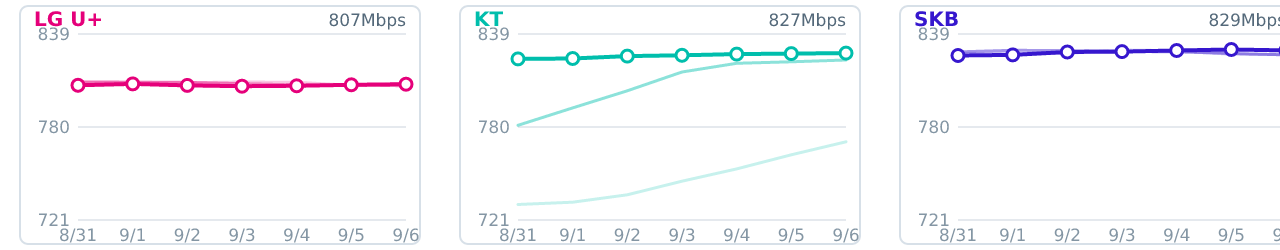
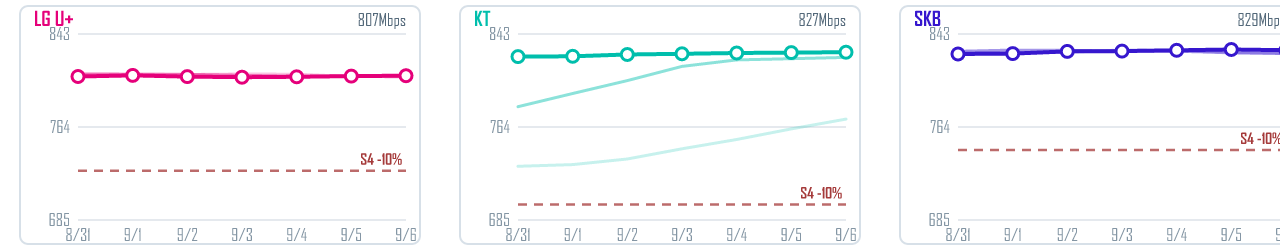
feat(alert): 주간 메일 차트↔트리거 판정 연계 — 지표 카드 + 차트 임계 점선
- 지표 카드: 차트 아래에 그 지표의 A/S 판정을 규칙당 1행, 열은 차트 패널 순서(LG U+·KT·SKB)로.
  ISP별 행이면 조건·의미가 3번 반복돼 99KB(Gmail 102KB 한도 근접) → 규칙 행으로 80KB.
- 차트 임계선: 절대 조건은 값 그대로, 상대 조건(S -10%·A5 +10%p)은 28일 기준선으로 환산해 점선+라벨.
- 3사 수준이 5배 이상 벌어지면(IPv6) 패널별 눈금(own scale) — 공유하면 작은 쪽이 바닥에 깔림.
- 라벨의 '<='가 SVG XML을 깨뜨린 회귀 → ≥/≤ + 이스케이프, PNG 변환 테스트에 특수문자 포함. 테스트 65항목.

diff --git a/scripts/detect-anomaly.ts b/scripts/detect-anomaly.ts
@@ -16,7 +16,7 @@ import { ISP_BY_ID, NIA_NAME_BY_ID } from '../src/data/isps.ts';
 import { METRIC_BY_ID, SOURCES } from '../src/data/metrics.ts';
 import { SUMMARY_METRICS, buildSummary } from '../src/lib/summary.ts';
 import type { QualityData } from '../src/types.ts';
-import { renderWeeklyCharts, type ChartSpec, type RenderedChart } from './weekly-charts.ts';
+import { renderWeeklyCharts, CHART_ISPS, type ChartSpec, type RenderedChart, type Guide } from './weekly-charts.ts';
 
 const HOUR = 3600000;
 const DAY = 24 * HOUR;
@@ -179,6 +179,7 @@ export interface EvalInput {
 export interface Check {
   key: string; group: 'A' | 'S' | 'D'; trigger: string; target: string; // target: ISP id 또는 캐시/출처 그룹명
   metric: string; // 사람이 읽는 지표명 + 출처 — "IPv6 채택률 (Cloudflare Radar)" · D는 감시 대상 파일/출처
+  metricId?: string; // A/S만 — 주간 메일에서 같은 지표의 차트 아래에 묶기 위한 키
   meaning: string; // 걸리면 무슨 상황인지 한 줄
   cond: string; value: number | null; unit: string; date: string; // 최근 유효값과 그 날짜(D는 경과시간·기준시각)
   met: boolean; active: boolean;
@@ -219,7 +220,7 @@ export function evaluate({ data, cacheGeneratedAt, now, prev }: EvalInput): Eval
         } else if (active[key] && off.none && off.last) {
           clear(key, off.last.v, `${ispName(isp)} ${mname} ${fmt(off.last.v, unit)} — 조건 미충족 ${CLEAR_DAYS}일 연속, 해소`);
         }
-        checks.push({ key, group: trg.id.startsWith('S') ? 'S' : 'A', trigger: trg.id, target: isp, metric: metricLabel(trg.metric), meaning: r.meaning, cond: condText(r, unit),
+        checks.push({ key, group: trg.id.startsWith('S') ? 'S' : 'A', trigger: trg.id, target: isp, metric: metricLabel(trg.metric), metricId: trg.metric, meaning: r.meaning, cond: condText(r, unit),
           value: lastV, unit, date: pts.length ? dayKey(pts[pts.length - 1].t) : '데이터 없음', met: on.all, active: !!active[key] });
       }
     }
@@ -324,6 +325,29 @@ export function digestData(data: QualityData, cacheGeneratedAt: Record<string, s
   return { ranks, fresh, week };
 }
 const round1 = (v: number | null) => (v == null ? null : Math.round(v * 10) / 10);
+
+// 차트 임계선: 트리거 규칙을 지표별·ISP별 y값으로. 상대 규칙(rise_pp·drop_pct)은 주 마지막 날 기준 직전 28일 중앙값으로 환산.
+export function chartGuides(data: QualityData, week: WeekWindow): Record<string, Guide[]> {
+  const out: Record<string, Guide[]> = {};
+  const baseline = (isp: string, metric: string): number | null => {
+    const v = data.series[isp]?.[metric]?.coarse?.[0]; if (!v) return null;
+    const axis = data.tiers.coarse.t; const h: number[] = [];
+    for (let i = 0; i < axis.length; i++) { const x = v[i]; if (x != null && axis[i] >= week.to - BASE_DAYS * DAY && axis[i] < week.to) h.push(x); }
+    return h.length >= 14 ? med(h) : null;
+  };
+  for (const trg of TRIGGERS) for (const isp of trg.isps) for (const r of trg.rules) {
+    let y: number | null = null, label = '';
+    switch (r.cmp) {
+      case 'gte': y = r.th; label = `${trg.id} ≥ ${r.th}`; break; // ≥/≤ 는 DejaVu·Arial 모두 있음(차트 폰트)
+      case 'lte': y = r.th; label = `${trg.id} ≤ ${r.th}`; break;
+      case 'gt0': y = 0; label = `${trg.id} > 0`; break;
+      case 'rise_pp': { const b = baseline(isp, trg.metric); if (b != null) { y = b + r.th; label = `${trg.id} +${r.th}pp`; } break; }
+      case 'drop_pct': { const b = baseline(isp, trg.metric); if (b != null) { y = b * (1 - r.th / 100); label = `${trg.id} -${r.th}%`; } break; }
+    }
+    if (y != null) (out[trg.metric] ??= []).push({ isp, y, label });
+  }
+  return out;
+}
 const weekEvents = (state: AlertState, week: WeekWindow) => state.history.filter((e) => { const t = Date.parse(e.at) + 9 * HOUR; return t >= week.from && t < week.to; });
 
 // Step Summary(markdown)용
@@ -415,24 +439,41 @@ export function buildMailHtml(r: EvalResult, data: QualityData, cacheGeneratedAt
     dg.ranks.map((m) => `<tr>${td(`<b>${esc(m.short)}</b>`)}${m.cells.map((c) => rankCell(c, m.unit, m.hib)).join('')}</tr>`).join(''));
   const weekEventsHtml = wev.length ? wev.map(eventCard).join('')
     : `<div style="padding:10px 12px;background:${C.card};border:1px solid ${C.line};border-radius:6px;font-size:13px;color:${C.soft};${FONT}">지난주 발동·해소 이벤트 없음 — 트리거 전부 정상 범위였습니다.</div>`;
-  // 일별 추이 차트 — 주간 평균이 지우는 '하루 튐'을 선으로 되살린다. 1·2주 전을 겹쳐 반복 패턴(주말 효과)과 이탈을 구분.
-  const chartsHtml = (opts.charts ?? []).map((c) => `<table role="presentation" width="100%" cellpadding="0" cellspacing="0" style="margin:0 0 10px"><tr><td style="padding:0 0 4px;font-size:12.5px;font-weight:700;color:${C.ink};${FONT}">${esc(c.short)}</td></tr>` +
-    `<tr><td><img src="${esc(`${opts.chartBase ?? CHART_BASE}/${c.file}`)}" width="640" height="125" alt="${esc(c.short)} 지난주 일별 추이" style="display:block;width:100%;max-width:640px;height:auto;border:0"></td></tr></table>`).join('');
+  // 판정 행 렌더러 — 전체 표(일별 메일)와 지표 카드(주간 메일) 양쪽에서 씀. withMetric=false 면 지표명 열을 생략(카드 제목에 이미 있음).
+  const stateChip = (c: Check) => c.active ? chip('발동 중', C.bad, C.badSoft) : c.met ? chip('충족', C.warn, C.warnSoft) : chip('정상', C.ops, C.opsSoft);
+  const checkRow = (c: Check, withMetric: boolean) => `<tr>${td(withMetric ? `<b style="color:${C.accent}">${esc(c.trigger)}</b> · <b>${esc(c.metric)}</b>` : `<b style="color:${C.accent}">${esc(c.trigger)}</b>`, withMetric ? '' : 'white-space:nowrap')}` +
+    `${td(esc(c.group === 'D' ? c.target : ispName(c.target)), 'white-space:nowrap')}${td(`${esc(c.cond)}<div style="color:${C.faint};font-size:11px">${esc(c.meaning)}</div>`, 'font-size:11.5px;color:' + C.soft)}` +
+    `${td(esc(fmt(c.value, c.unit)), 'text-align:right;white-space:nowrap')}${td(`<span style="color:${C.faint};font-size:11px">${esc(c.date)}</span>`, 'white-space:nowrap')}${td(stateChip(c))}</tr>`;
+  // 지표 카드(주간) — 차트 + 그 지표의 A/S 판정. 규칙당 1행, 열은 차트 패널과 같은 순서(LG U+ · KT · SKB)라 점선↔셀이 바로 대응된다.
+  // (ISP별 행으로 풀면 조건·의미가 3번 반복돼 본문이 Gmail 102KB 한도에 닿았음 — 2026-09-09)
+  const tdc = (html: string, extra = '') => `<td style="padding:6px 8px;font-size:12px;border-bottom:1px solid ${C.line};${FONT}${extra}">${html}</td>`;
+  const metricCards = (opts.charts ?? []).map((c) => {
+    const rows = r.checks.filter((k) => k.metricId === c.id);
+    const rules = [...new Map(rows.map((k) => [`${k.trigger}:${k.key.split(':')[2]}`, k])).entries()]; // 규칙 대표 행
+    const ids = [...new Set(rows.map((k) => k.trigger))];
+    const head = `<tr><td style="padding:0 0 6px;${FONT}"><span style="font-size:13.5px;font-weight:700;color:${C.ink}">${esc(c.short)}</span> ` +
+      (ids.length ? ids.map((id) => chip(id, C.accent, C.accentSoft)).join(' ') : `<span style="font-size:11px;color:${C.faint}">트리거 없음 · 순위 비교용</span>`) +
+      (rows.some((k) => k.active) ? ' ' + chip('발동 중', C.bad, C.badSoft) : '') + `</td></tr>`;
+    const img = `<tr><td><img src="${esc(`${opts.chartBase ?? CHART_BASE}/${c.file}`)}" width="640" height="125" alt="${esc(c.short)} 지난주 일별 추이" style="display:block;width:100%;max-width:640px;height:auto;border:0"></td></tr>`;
+    const cell = (k: Check | undefined) => !k ? tdc(`<span style="color:${C.faint}">—</span>`, 'text-align:center')
+      : tdc(`<b style="color:${C.ink}">${esc(fmt(k.value, k.unit))}</b> ${stateChip(k)}<div style="font-size:10.5px;color:${C.faint}">${esc(k.date)}</div>`, 'white-space:nowrap');
+    const tbl = rules.length ? `<tr><td style="padding:6px 0 0">${table(`<tr>${th('트리거', 'width:8%')}${th('조건 (차트 점선) · 걸리면 이런 상황', 'width:41%')}${CHART_ISPS.map((i) => th(ispName(i), 'width:17%')).join('')}</tr>` +
+      rules.map(([rk, k0]) => `<tr>${tdc(`<b style="color:${C.accent}">${esc(k0.trigger)}</b>`, 'white-space:nowrap')}${tdc(`<span style="color:${C.soft}">${esc(k0.cond)}</span><div style="color:${C.faint};font-size:10.5px">${esc(k0.meaning)}</div>`, 'font-size:11.5px')}` +
+        CHART_ISPS.map((isp) => cell(rows.find((k) => k.target === isp && `${k.trigger}:${k.key.split(':')[2]}` === rk))).join('') + '</tr>').join(''))}</td></tr>` : '';
+    return `<table role="presentation" width="100%" cellpadding="0" cellspacing="0" style="margin:0 0 16px;padding:10px 12px;background:${C.card2};border:1px solid ${C.line};border-radius:8px">${head}${img}${tbl}</table>`;
+  }).join('');
 
   // 수집 신선도
   const freshChip = (f: DigestData['fresh'][number]) => { const s = freshState(f); return s === 'ok' ? chip('정상', C.good, C.goodSoft) : s === 'warn' ? chip('주의', C.warn, C.warnSoft) : s === 'over' ? chip('허용 초과', C.bad, C.badSoft) : chip('파일 없음', C.bad, C.badSoft); };
   const freshHtml = table(`<tr>${th('출처')}${th('마지막 갱신', 'text-align:right')}${th('허용', 'text-align:right')}${th('상태')}</tr>` +
     dg.fresh.map((f) => `<tr>${td(esc(f.name))}${td(f.ageH == null ? '–' : `${f.ageH.toFixed(1)}h 전`, 'text-align:right;white-space:nowrap')}${td(`${f.limitH}h`, 'text-align:right;color:' + C.faint)}${td(freshChip(f))}</tr>`).join(''));
 
-  // 트리거 판정 현황
-  const stateChip = (c: Check) => c.active ? chip('발동 중', C.bad, C.badSoft) : c.met ? chip('충족', C.warn, C.warnSoft) : chip('정상', C.ops, C.opsSoft);
-  const groups: Check['group'][] = ['A', 'S', 'D'];
+  // 트리거 판정 현황 — 주간 메일에선 A/S가 지표 카드로 올라가므로 D만, 일별 메일에선 전체.
   // 한 행 = "A1 · IPv6 채택률 (Cloudflare Radar)" / KT / 조건 + 의미 한 줄 / 최근값 / 기준일 / 상태 — ID만으론 무슨 지표인지 안 보여서(2026-09-09) 지표명·의미를 같이 표기.
+  const tableGroups: Check['group'][] = week && opts.charts?.length ? ['D'] : ['A', 'S', 'D'];
   const checksHtml = table(`<tr>${th('트리거 · 지표', 'width:27%')}${th('대상', 'width:11%')}${th('조건 · 걸리면 이런 상황', 'width:36%')}${th('최근값', 'text-align:right;width:9%')}${th('기준일', 'width:10%')}${th('상태', 'width:7%')}</tr>` +
-    groups.map((g) => `<tr><td colspan="6" style="padding:6px 10px;font-size:11px;font-weight:700;color:${C.accent};background:${C.accentSoft};${FONT}">${esc(GROUP_LABEL[g])}</td></tr>` +
-      r.checks.filter((c) => c.group === g).map((c) => `<tr>${td(`<b style="color:${C.accent}">${esc(c.trigger)}</b> · <b>${esc(c.metric)}</b>`)}${td(esc(c.group === 'D' ? c.target : ispName(c.target)), 'white-space:nowrap')}` +
-        `${td(`${esc(c.cond)}<div style="color:${C.faint};font-size:11px">${esc(c.meaning)}</div>`, 'font-size:11.5px;color:' + C.soft)}` +
-        `${td(esc(fmt(c.value, c.unit)), 'text-align:right;white-space:nowrap')}${td(`<span style="color:${C.faint};font-size:11px">${esc(c.date)}</span>`, 'white-space:nowrap')}${td(stateChip(c))}</tr>`).join('')).join(''));
+    tableGroups.map((g) => `<tr><td colspan="6" style="padding:6px 10px;font-size:11px;font-weight:700;color:${C.accent};background:${C.accentSoft};${FONT}">${esc(GROUP_LABEL[g])}</td></tr>` +
+      r.checks.filter((c) => c.group === g).map((c) => checkRow(c, true)).join('')).join(''));
 
   const links = `<a href="${DASHBOARD_URL}" style="color:${C.accent};text-decoration:none">대시보드 열기</a>` + (opts.runUrl ? ` · <a href="${esc(opts.runUrl)}" style="color:${C.accent};text-decoration:none">판정 실행 로그</a>` : '');
   return `<!doctype html><html lang="ko"><head><meta charset="utf-8"><meta name="viewport" content="width=device-width"><title>ISPQ 알림</title></head>` +
@@ -448,8 +489,9 @@ export function buildMailHtml(r: EvalResult, data: QualityData, cacheGeneratedAt
     (week ? section(`지난주 이벤트 (${week.label})`, weekEventsHtml) + (r.events.length ? section('오늘 신규 이벤트', eventsHtml) : '') : section('이벤트', eventsHtml)) +
     section('활성 알림', activeHtml) +
     section('국내 3사 대표 지표 순위', ranksHtml, week ? `지난주 ${week.label} 일별 집계 평균 · 1위 초록 · 꼴찌 빨강 · 화살표는 전전주 대비 변화(초록=개선, 빨강=악화)` : '종합지표 패널과 같은 계산 · 1위 초록 · 꼴찌 빨강') +
-    (week && opts.charts?.length ? section('지난주 일별 추이', chartsHtml, `진한 선·점 = 지난주 ${week.label} · 연한 선 = 1주 전 · 더 연한 선 = 2주 전 · 세 패널은 같은 눈금(사업자 간 수준 비교 가능) · 평균에 묻히는 하루 튐은 여기서 보입니다`) : '') +
-    section('수집 신선도', freshHtml) + section('트리거 판정 현황', checksHtml, '"정상" = 조건 미충족. "충족"은 조건은 넘었으나 아직 발동 처리 전, "발동 중"은 해소 전까지 재발송 없음') +
+    (week && opts.charts?.length ? section('지표별 지난주 추이 + 트리거 판정', metricCards, `진한 선·점 = 지난주 ${week.label} · 연한 선 = 1주 전 · 더 연한 선 = 2주 전 · 빨간 점선 = 아래 표의 트리거 임계값(상대 조건은 28일 기준선으로 환산) · 패널 눈금은 공유, 사업자 간 수준이 5배 이상 벌어지면 개별(own scale)`) : '') +
+    section('수집 신선도', freshHtml) +
+    section(week && opts.charts?.length ? '운영 트리거 판정 현황' : '트리거 판정 현황', checksHtml, '"정상" = 조건 미충족. "충족"은 조건은 넘었으나 아직 발동 처리 전, "발동 중"은 해소 전까지 재발송 없음') +
     `<tr><td style="padding:18px 0 0;border-top:1px solid ${C.line};margin-top:18px;font-size:11px;color:${C.faint};${FONT}">${links} · 판정 규칙: 핸드오프 문서 §17 · 이 메일은 자동 발송됩니다</td></tr>` +
     `</table></td></tr></table></body></html>`;
 }
@@ -471,7 +513,7 @@ async function main() {
   const week = weekly ? prevWeekWindow(now) : undefined;
   const r = evaluate({ data, cacheGeneratedAt, now, prev });
   await writeFile(STATE_FILE, JSON.stringify(r.state, null, 1));
-  const charts = week ? await renderWeeklyCharts(data, week.from, CHART_SPECS, CHARTS_DIR) : [];
+  const charts = week ? await renderWeeklyCharts(data, week.from, CHART_SPECS, CHARTS_DIR, chartGuides(data, week)) : [];
   if (charts.length) console.log(`[alert] 주간 추이 차트 ${charts.length}장 → ${CHARTS_DIR} (${charts.map((c) => `${c.id} ${(c.bytes / 1024).toFixed(0)}KB`).join(', ')})`);
   const report = buildReport(r, data, cacheGeneratedAt, now, week);
   await writeFile(REPORT_FILE, report);

diff --git a/scripts/weekly-charts.ts b/scripts/weekly-charts.ts
@@ -36,27 +36,51 @@ export function extractSeries(data: QualityData, metric: string, weekFrom: numbe
   });
 }
 
+const xmlEsc = (s: string) => s.replace(/[&<>]/g, (ch) => ({ '&': '&amp;', '<': '&lt;', '>': '&gt;' }[ch] as string)); // 라벨에 <= 같은 문자가 오면 SVG 파싱이 깨진다
 const niceNum = (v: number) => (Math.abs(v) >= 100 ? v.toFixed(0) : Math.abs(v) >= 10 ? v.toFixed(1) : v.toFixed(2)).replace(/\.0+$/, '');
 
-// 2배 해상도(레티나)로 그린다: 표시 640×125 → 1280×250.
-export function weeklyChartSvg(series: ChartSeries[], dayLabels: string[], unit: string): string {
-  const W = 1280, H = 250, PANEL_W = 400, GAP = 40, LEFT = 20;
-  const PAD_L = 58, PAD_R = 14, PAD_T = 34, PAD_B = 30;
-  const vals = series.flatMap((s) => s.weeks.flat()).filter((x): x is number => x != null);
-  let lo = vals.length ? Math.min(...vals) : 0, hi = vals.length ? Math.max(...vals) : 1;
+// 트리거 임계선: 해당 ISP 패널에 점선으로 그려 "값이 선에서 얼마나 떨어져 있나"를 보이게 한다(2026-09-09, 차트↔판정 연계).
+// 절대 임계(A1 ≥1% 등)는 값 그대로, 상대 임계(S -10%·A5 +10%p)는 호출 쪽이 28일 기준선으로 환산해 y로 넘긴다.
+export interface Guide { isp: string; y: number; label: string }
+
+// y축 공유 여부: 3사 수준(지난주 중앙값)이 5배 이상 벌어지면(IPv6: LG U+ 16% vs KT 0.02%) 공유하면 작은 쪽이 바닥에 깔려 안 보이므로 패널별 눈금.
+function levelOf(s: ChartSeries): number { const v = s.weeks[0].filter((x): x is number => x != null).sort((a, b) => a - b); return v.length ? v[Math.floor(v.length / 2)] : 0; }
+function yRange(vals: number[], guides: number[]): { lo: number; hi: number } {
+  const all = [...vals, ...guides];
+  let lo = all.length ? Math.min(...all) : 0, hi = all.length ? Math.max(...all) : 1;
   if (hi === lo) { hi = lo + (Math.abs(lo) || 1) * 0.1; lo = lo - (Math.abs(lo) || 1) * 0.1; }
   const pad = (hi - lo) * 0.1; lo -= pad; hi += pad;
-  if (lo < 0 && vals.every((x) => x >= 0)) lo = 0; // 음수 불가 지표는 0에서 시작
-  const ticks = [lo, (lo + hi) / 2, hi];
+  if (lo < 0 && all.every((x) => x >= 0)) lo = 0; // 음수 불가 지표는 0에서 시작
+  return { lo, hi };
+}
+
+// 2배 해상도(레티나)로 그린다: 표시 640×125 → 1280×250.
+export function weeklyChartSvg(series: ChartSeries[], dayLabels: string[], unit: string, guides: Guide[] = []): string {
+  const W = 1280, H = 250, PANEL_W = 400, GAP = 40, LEFT = 20;
+  const PAD_L = 58, PAD_R = 14, PAD_T = 34, PAD_B = 30;
+  const levels = series.map(levelOf).filter((x) => x > 0);
+  const shared = levels.length < 2 || Math.max(...levels) / Math.min(...levels) < 5;
+  const allVals = series.flatMap((s) => s.weeks.flat()).filter((x): x is number => x != null);
+  const sharedRange = yRange(allVals, guides.map((g) => g.y));
   const out: string[] = [`<svg xmlns="http://www.w3.org/2000/svg" width="${W}" height="${H}" viewBox="0 0 ${W} ${H}">`, `<rect width="${W}" height="${H}" fill="#ffffff"/>`];
   series.forEach((s, p) => {
     const x0 = LEFT + p * (PANEL_W + GAP), px0 = x0 + PAD_L, px1 = x0 + PANEL_W - PAD_R, py0 = PAD_T, py1 = H - PAD_B;
+    const myGuides = guides.filter((g) => g.isp === s.isp);
+    const { lo, hi } = shared ? sharedRange : yRange(s.weeks.flat().filter((x): x is number => x != null), myGuides.map((g) => g.y));
+    const ticks = [lo, (lo + hi) / 2, hi];
     const X = (d: number) => px0 + (d / 6) * (px1 - px0), Y = (v: number) => py1 - ((v - lo) / (hi - lo)) * (py1 - py0);
     out.push(`<rect x="${x0}" y="6" width="${PANEL_W}" height="${H - 12}" rx="8" fill="#ffffff" stroke="#d7e0e8" stroke-width="2"/>`);
     out.push(`<text x="${x0 + 14}" y="26" font-family="sans-serif" font-size="20" font-weight="700" fill="${ISP_COLOR[s.isp]}">${ISP_LABEL[s.isp]}</text>`);
+    if (!shared) out.push(`<text x="${x0 + 14 + ISP_LABEL[s.isp].length * 13 + 6}" y="26" font-family="sans-serif" font-size="14" fill="#8496a4">(own scale)</text>`);
     for (const t of ticks) out.push(`<line x1="${px0}" y1="${Y(t).toFixed(1)}" x2="${px1}" y2="${Y(t).toFixed(1)}" stroke="#e5e9ee" stroke-width="2"/>`,
       `<text x="${px0 - 8}" y="${(Y(t) + 6).toFixed(1)}" font-family="sans-serif" font-size="17" fill="#8496a4" text-anchor="end">${niceNum(t)}</text>`);
     dayLabels.forEach((lab, d) => out.push(`<text x="${X(d).toFixed(1)}" y="${H - 9}" font-family="sans-serif" font-size="17" fill="#8496a4" text-anchor="middle">${lab}</text>`));
+    // 임계선(점선) + 라벨. 여러 개면 라벨이 겹치지 않게 선 위/아래로 번갈아.
+    myGuides.forEach((g, i) => {
+      const gy = Y(g.y);
+      out.push(`<line x1="${px0}" y1="${gy.toFixed(1)}" x2="${px1}" y2="${gy.toFixed(1)}" stroke="#a53a3a" stroke-opacity="0.75" stroke-width="2.5" stroke-dasharray="9 7"/>`);
+      out.push(`<text x="${px1 - 4}" y="${(i % 2 ? gy + 18 : gy - 6).toFixed(1)}" font-family="sans-serif" font-size="15" font-weight="700" fill="#a53a3a" text-anchor="end">${xmlEsc(g.label)}</text>`);
+    });
     // 2주 전 → 지난주 순으로 그려 지난주가 맨 위에 오게
     for (let w = 2; w >= 0; w--) {
       const st = WEEK_STYLE[w]; let dpath = '', pen = false;
@@ -79,13 +103,13 @@ export function svgToPng(svg: string): Buffer {
 
 export interface RenderedChart { id: string; short: string; unit: string; file: string; bytes: number }
 
-// 지표별 PNG를 outDir 에 'weekly-<metric>.png' 로 저장(매주 덮어씀).
-export async function renderWeeklyCharts(data: QualityData, weekFrom: number, specs: ChartSpec[], outDir: string): Promise<RenderedChart[]> {
+// 지표별 PNG를 outDir 에 'weekly-<metric>.png' 로 저장(매주 덮어씀). guides: 지표 id → 임계선 목록.
+export async function renderWeeklyCharts(data: QualityData, weekFrom: number, specs: ChartSpec[], outDir: string, guides: Record<string, Guide[]> = {}): Promise<RenderedChart[]> {
   await mkdir(outDir, { recursive: true });
   const dayLabels = Array.from({ length: 7 }, (_, d) => { const t = new Date(weekFrom + d * DAY); return `${t.getUTCMonth() + 1}/${t.getUTCDate()}`; });
   const out: RenderedChart[] = [];
   for (const spec of specs) {
-    const png = svgToPng(weeklyChartSvg(extractSeries(data, spec.id, weekFrom), dayLabels, spec.unit));
+    const png = svgToPng(weeklyChartSvg(extractSeries(data, spec.id, weekFrom), dayLabels, spec.unit, guides[spec.id] ?? []));
     const file = `weekly-${spec.id}.png`;
     await writeFile(resolve(outDir, file), png);
     out.push({ ...spec, file, bytes: png.length });

diff --git a/scripts/detect-anomaly.test.ts b/scripts/detect-anomaly.test.ts
@@ -4,7 +4,7 @@
 import { readFile } from 'node:fs/promises';
 import { dirname, resolve } from 'node:path';
 import { fileURLToPath } from 'node:url';
-import { evaluate, emptyState, buildMailHtml, buildReport, digestData, prevWeekWindow, TRIGGERS, CACHE_NAMES, KR3, type AlertState } from './detect-anomaly.ts';
+import { evaluate, emptyState, buildMailHtml, buildReport, digestData, prevWeekWindow, chartGuides, TRIGGERS, CACHE_NAMES, KR3, type AlertState } from './detect-anomaly.ts';
 import { extractSeries, weeklyChartSvg, svgToPng, renderWeeklyCharts } from './weekly-charts.ts';
 import { tmpdir } from 'node:os';
 import type { QualityData } from '../src/types.ts';
@@ -164,7 +164,23 @@ async function main() {
     const charts = await renderWeeklyCharts(real, w.from, [{ id: 'latency', short: 'RTT', unit: 'ms' }, { id: 'ipv6', short: 'IPv6', unit: '%' }], dir);
     ok(charts.length === 2 && charts.every((c) => c.bytes > 1000 && c.file.startsWith('weekly-')), `renderWeeklyCharts: ${charts.map((c) => `${c.file} ${(c.bytes / 1024).toFixed(0)}KB`).join(', ')}`);
     const html = buildMailHtml(base, real, caches, now, { week: w, charts, chartBase: 'https://x/y' });
-    ok(html.includes('지난주 일별 추이') && html.includes('https://x/y/weekly-latency.png') && html.includes('<img '), 'HTML 주간 메일: 추이 섹션 + 차트 URL'); }
+    ok(html.includes('지표별 지난주 추이 + 트리거 판정') && html.includes('https://x/y/weekly-latency.png') && html.includes('<img '), 'HTML 주간 메일: 추이 섹션 + 차트 URL');
+    // 차트↔판정 연계: ipv6 카드 안에 A1·A2 행이, latency 카드엔 "트리거 없음"이, A/S 행은 카드 밖 표에 중복되지 않음
+    const ipv6Card = html.slice(html.indexOf('weekly-ipv6.png'), html.indexOf('weekly-ipv6.png') + 6000);
+    ok(ipv6Card.includes('>A1<') && ipv6Card.includes('>A2<') && ipv6Card.includes('≥ 1% · 3일 연속') && (ipv6Card.match(/>—</g) ?? []).length === 5, 'IPv6 카드에 A1·A2 규칙 행(3행) · 미대상 ISP 셀 5개 — (A1: LGU / A2 상승·하락: KT·SKB)');
+    ok(html.length < 95 * 1024, `주간 HTML ${(html.length / 1024).toFixed(0)}KB < 95KB (Gmail 102KB 클립 여유)`);
+    ok(html.includes('트리거 없음 · 순위 비교용') && html.includes('운영 트리거 판정 현황') && (html.match(/IPv6 채택률 \(Cloudflare Radar\)/g) ?? []).length <= 1, 'RTT 카드 "트리거 없음" · 카드 밖 표는 D만');
+    const g = chartGuides(real, w);
+    ok(g.ipv6?.some((x) => x.isp === 'kt' && x.y === 1 && x.label === 'A1 ≥ 1') && g.ipv6?.filter((x) => x.isp === 'lgu').length === 2, `임계선: ipv6 KT 1% · LGU 2개 (${g.ipv6?.map((x) => `${x.isp}:${x.label}`).join(' ')})`);
+    const s1 = g.downloadBandwidth?.find((x) => x.isp === 'kt');
+    ok(!!s1 && s1.y > 200 && s1.y < 300 && s1.label === 'S1 -10%', `상대 임계 환산: S1 KT 기준선×0.9 = ${s1?.y.toFixed(1)}`);
+    const svgG = weeklyChartSvg(ser, ['a', 'b', 'c', 'd', 'e', 'f', 'g'], 'Mbps', g.downloadBandwidth ?? []);
+    ok((svgG.match(/stroke-dasharray/g) ?? []).length === 3 && svgG.includes('S1 -10%'), '차트에 임계 점선 3개(3사) + 라벨');
+    const svgIpv6 = weeklyChartSvg(extractSeries(real, 'ipv6', w.from), ['a', 'b', 'c', 'd', 'e', 'f', 'g'], '%', g.ipv6 ?? []);
+    ok(svgIpv6.includes('(own scale)') && !svgG.includes('(own scale)'), 'IPv6(수준 1000배 차)는 패널별 눈금, 다운로드는 공유 눈금');
+    // 라벨에 ≤ 같은 특수문자·이스케이프 대상이 있어도 PNG 변환이 깨지지 않아야 함(2026-09-09 '<=' 로 XML 파싱 실패했던 회귀)
+    const pngG = svgToPng(weeklyChartSvg(extractSeries(real, 'ipv6', w.from), ['a', 'b', 'c', 'd', 'e', 'f', 'g'], '%', [...(g.ipv6 ?? []), { isp: 'kt', y: 0.5, label: 'x <= 1 & y' }]));
+    ok(pngG.length > 2000 && pngG[0] === 0x89, `임계 라벨(≤·<·&) 포함 PNG 변환 ${(pngG.length / 1024).toFixed(0)}KB`); }
 
   console.log('\n[9] 정의 무결성');
   ok(TRIGGERS.every((t) => t.isps.every((i) => real.series[i]?.[t.metric])), '트리거의 모든 (isp, metric)이 데이터에 존재');
